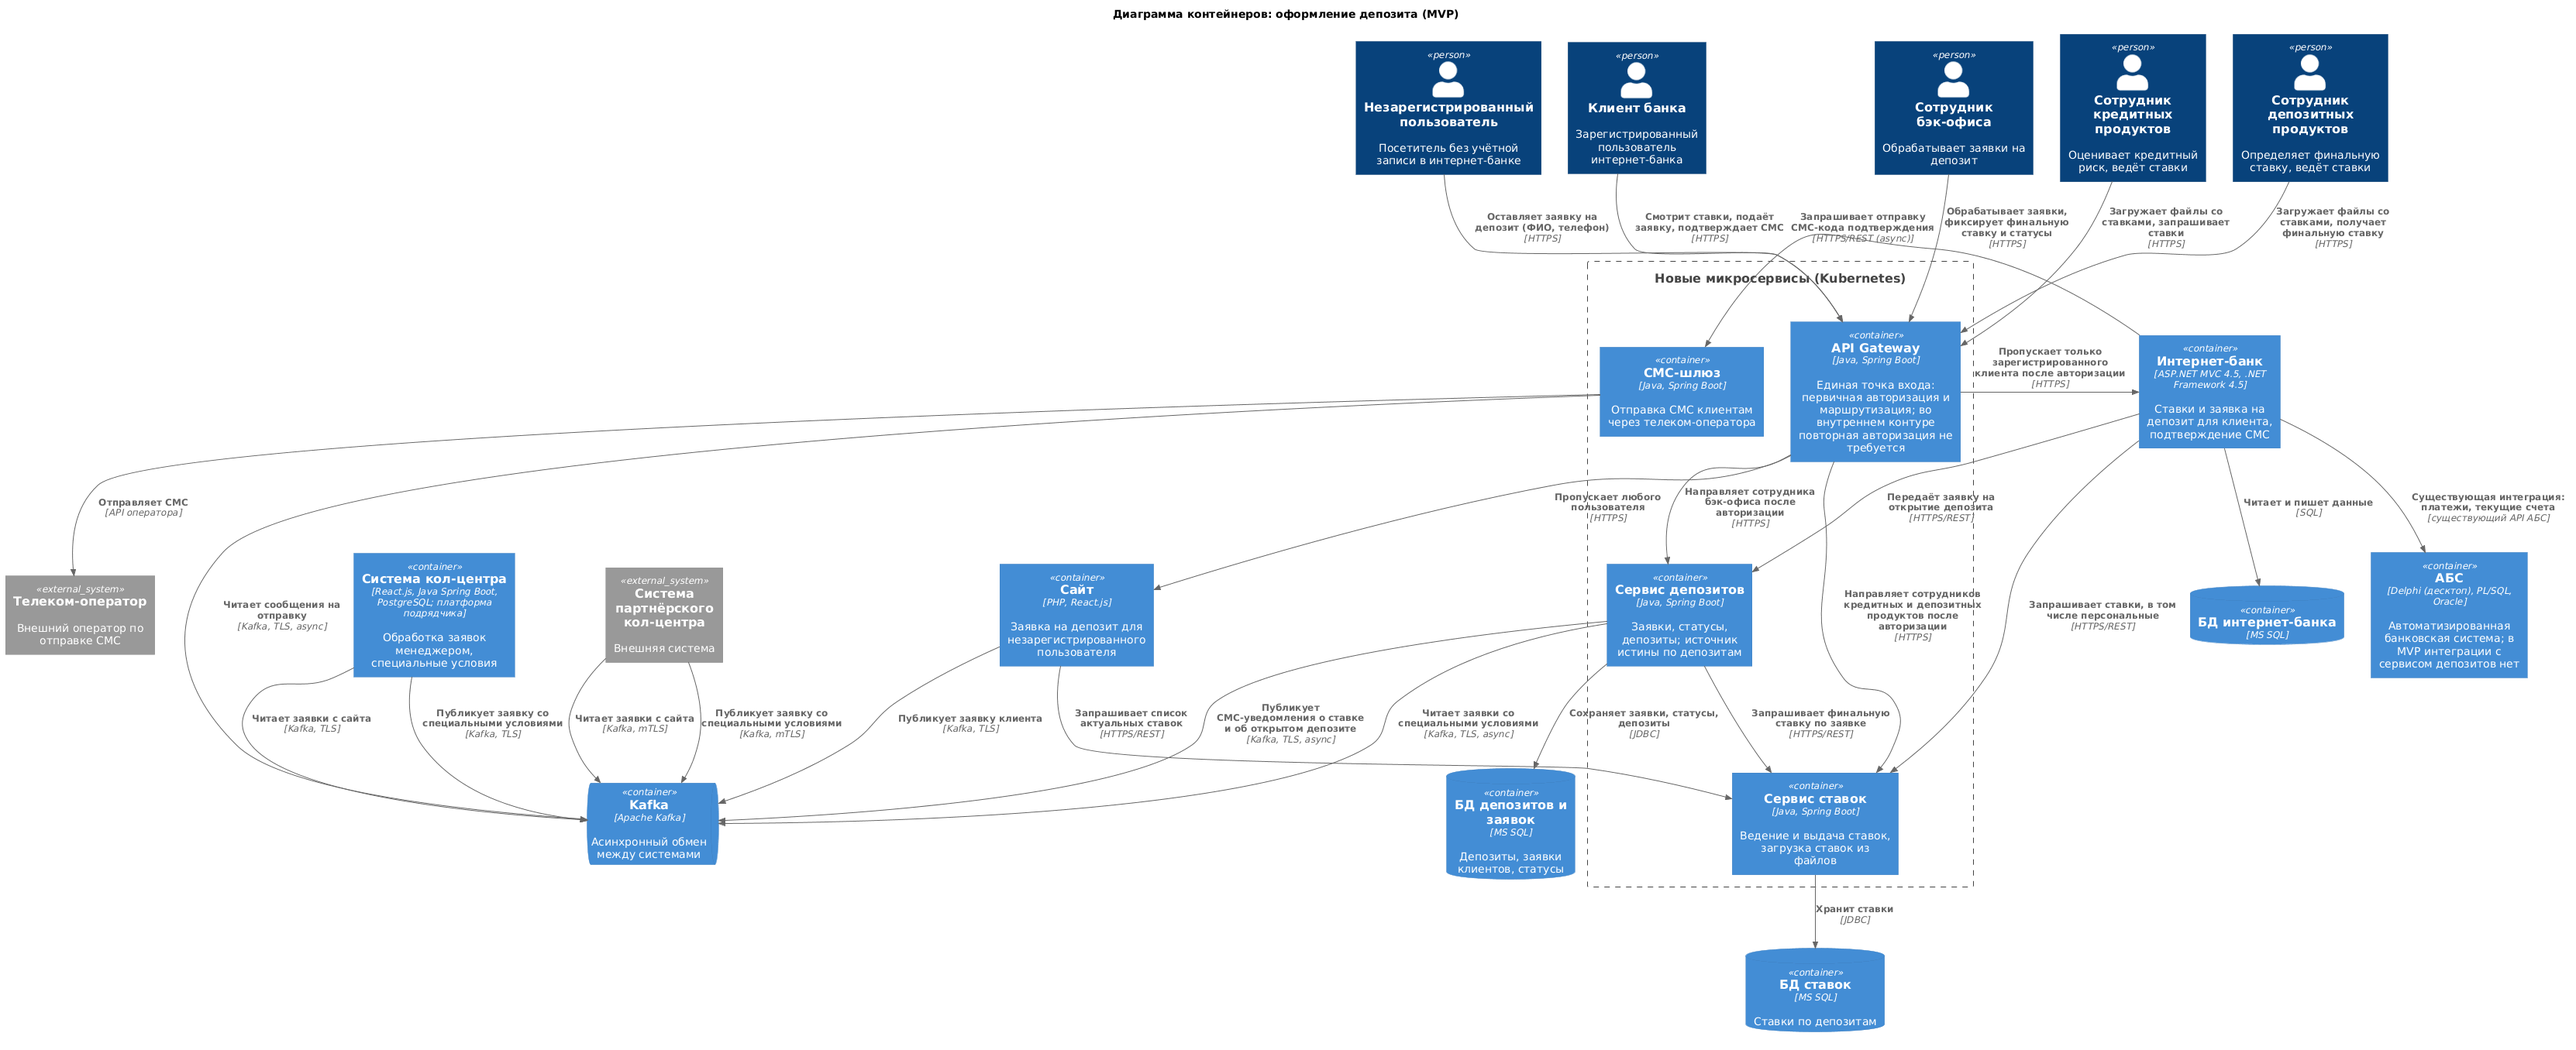
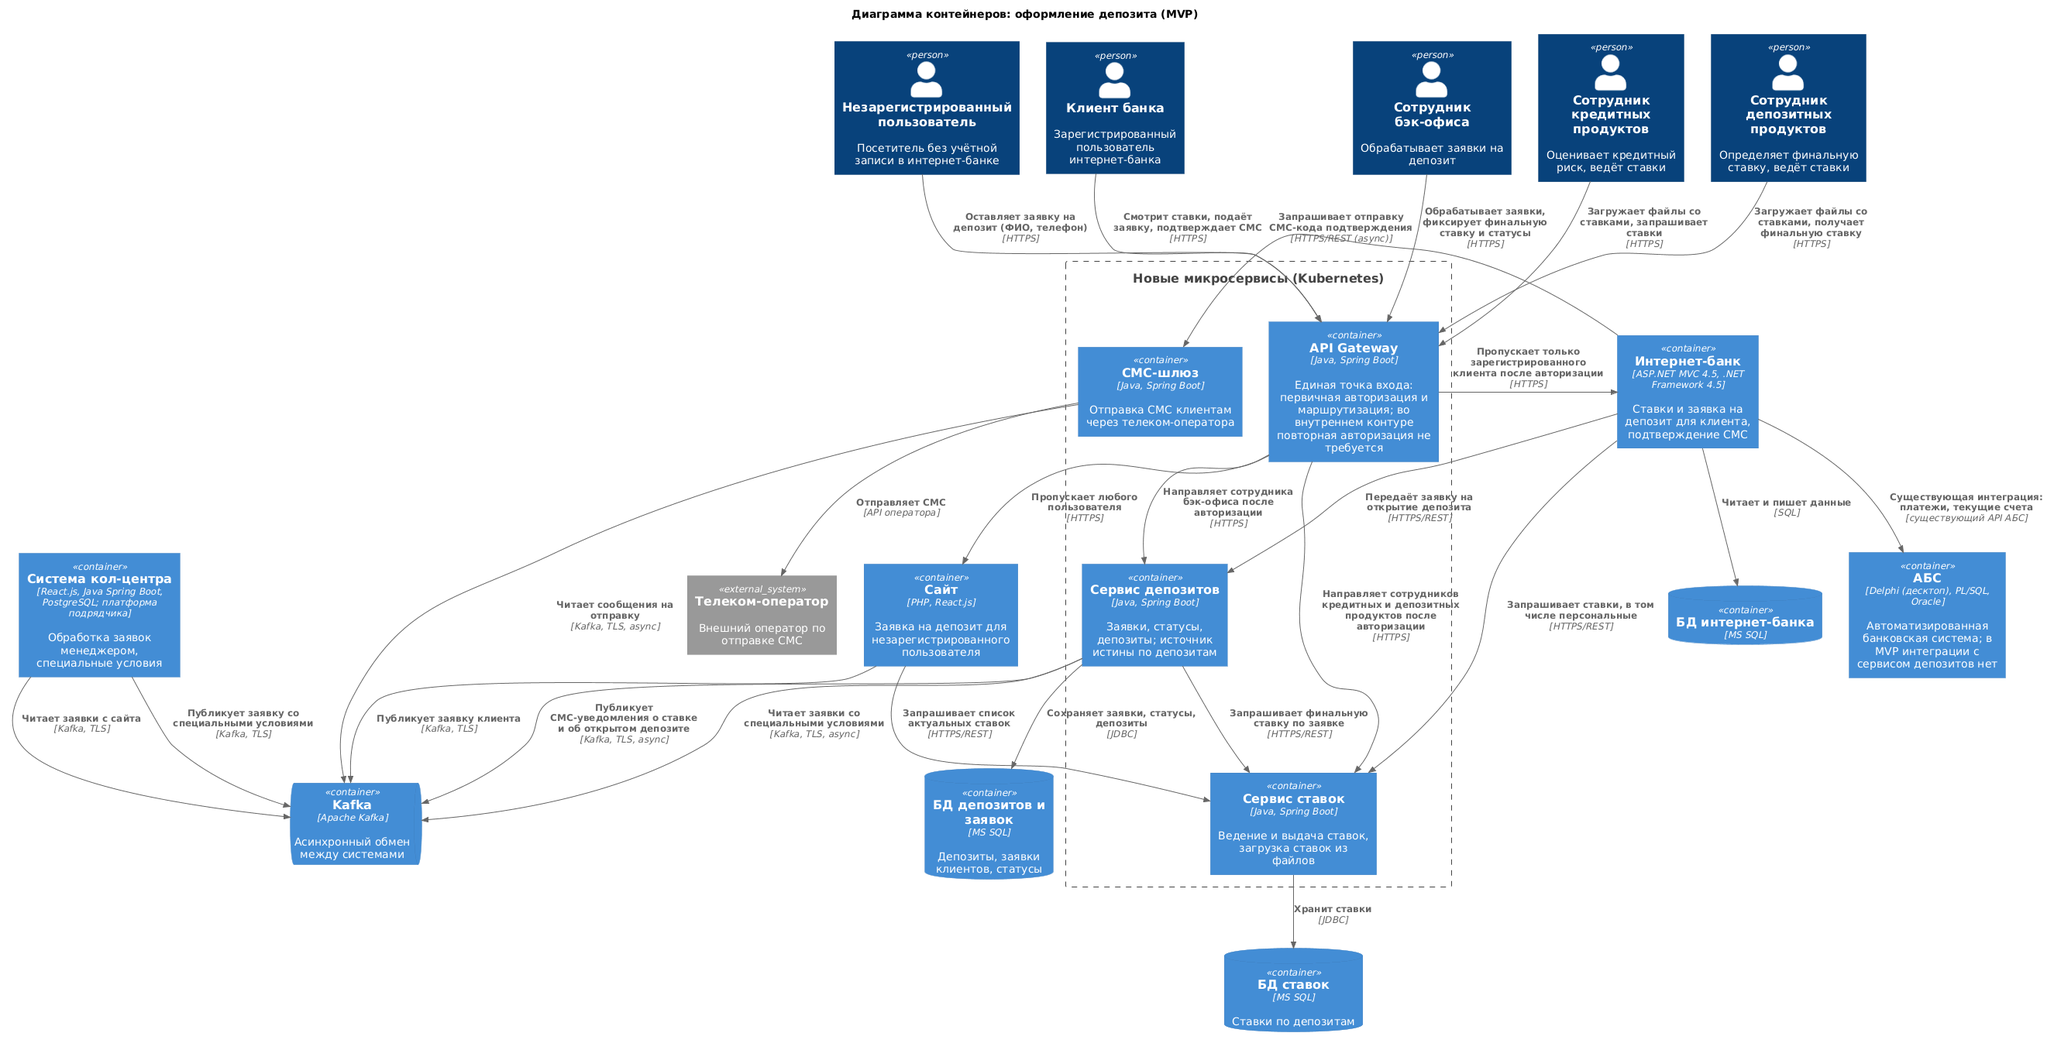
feat: add task 4

diff --git a/Task4/Шаблон_ADR_Task4.md b/Task4/Шаблон_ADR_Task4.md
@@ -1,0 +1,45 @@
+### <a name="_b7urdng99y53"></a>**Название задачи:** Получение ставок депозитов через колл-центр
+### <a name="_hjk0fkfyohdk"></a>**Автор:** Лукашев Михаил
+### <a name="_uanumrh8zrui"></a>**Дата:** 29.10.2026
+### <a name="_3bfxc9a45514"></a>**Функциональные требования**
+Опишите здесь верхнеуровневые Use Cases. Их нужно оформить в виде таблицы с пошаговым описанием:
+
+|**№**|**Действующие лица или системы**|**Use Case**|**Описание**|
+| :-: | :- | :- | :- |
+|1|Пользователь, Gateway, Сотрудник партнёрского колл-центра, Система партнёрского колл-центра|Получение информации о ставке депозита через партнёрский колл-центр, когда основной колл-центр загружен|а) пользователь звонит в банк<br>б) банк понимает, что основной колл-центр загружен<br>в) звонок перенаправляется в партнёрский колл-центр<br>г) пользователь просит у сотрудника информацию о ставке депозита<br>д) сотрудник колл-центра в UI системы партнёрского колл-центра запрашивает информацию о ставке<br>е) в течение нескольких секунд актуальные ставки на момент обращения показываются в UI системы партнёрского колл-центра<br>ж) сотрудник партнёрского колл-центра сообщает информацию о ставке клиенту|
+|2|Пользователь, Gateway, Сотрудник колл-центра, Система колл-центра банка|Получение информации о ставке депозита через основной колл-центр, когда он не загружен|а) пользователь звонит в банк<br>б) банк понимает, что основной колл-центр не загружен<br>в) звонок остаётся в основном колл-центре банка<br>г) пользователь просит у сотрудника информацию о ставке депозита<br>д) сотрудник основного колл-центра в UI системы колл-центра банка запрашивает информацию о ставке<br>е) в течение нескольких секунд актуальные ставки на момент обращения показываются в UI системы колл-центра банка<br>ж) сотрудник основного колл-центра сообщает информацию о ставке клиенту|
+### <a name="_u8xz25hbrgql"></a>**Нефункциональные требования**
+Опишите здесь нефункциональные требования и архитектурно значимые требования.
+
+|**№**|**Требование**|
+| :-: | :- |
+|R|**Надёжность (Reliability)**|
+|R1|Режим работы 24/7.|
+|R2|Доступность ставки 99%.|
+|P|**Производительность (Performance)**|
+|P1|Получение файла со ставками не дольше секунды в пиковых нагрузках.|
+|P2|Поддержка горизонтального масштабирования.|
+|+R|**+ Ограничения (Restrictions)**|
+|+R1|Партнёрский колл-центр не может предоставить API — используем протокол SFTP.|
+|+R2|Для разработки бэкенда можно использовать Java и Spring Boot.|
+|+R3|Разработанный микросервис нужно развернуть в Kubernetes.|
+|+R4|Уже есть gateway, его логику нужно доработать для определения загруженности колл-центра.|
+### <a name="_qmphm5d6rvi3"></a>**Решение**
+Приведите диаграммы контекста и контейнеров в модели C4. Опишите там основные компоненты и интеграции всех элементов решения. 
+
+Также опишите, какой логикой вы руководствовались в ходе принятия решений и выбора технологий. Не забывайте, что необходимо учесть все функциональные и нефункциональные требования.
+
+![Диаграмма контекста](adr_call_center_context.png)
+
+![Диаграмма контейнеров](adr_call_center_container.png)
+### <a name="_bjrr7veeh80c"></a>**Альтернативы**
+Опишите здесь наиболее важные альтернативные решения.
+1) Использовать кэш Redis. Минусы - дополнительная инфра; также через SFTP напрямую не отправить из Редиса файл, все равно нужен адаптер. Кафка уже есть в инфре, логично ее переиспользовать.
+2) Передавать в топике Kafka файл. Файл со ставками неописанного размера (может быть > 1mib). Через кафку лучше не передавать файлы большого размера.
+3) Не использовать кафку. Блокирующие вызовы - блокировка адаптера; ниже пропускная способность.
+4) Не использовать локальный кэш. Тогда придется каждый раз ходить в БД - дорого. Ставка не обновляется каждую секунду, нет смысла в лишних запросах.
+
+**Недостатки, ограничения, риски**
+
+Подробно опишите здесь недостатки, ограничения и риски выбранного решения.
+1) Локальный кеш придется прогревать после рестарта. Кэш не планируется большой - прогрев не должен занять много времени.

diff --git a/Task3/Шаблон_ADR_task3.md b/Task3/Шаблон_ADR_task3.md
@@ -1,5 +1,5 @@
 ### <a name="_b7urdng99y53"></a>**Название задачи:** MVP "Открытие депозита онлайн"
-### <a name="_hjk0fkfyohdk"></a>**Автор:** Лукашев Михаио
+### <a name="_hjk0fkfyohdk"></a>**Автор:** Лукашев Михаил
 ### <a name="_uanumrh8zrui"></a>**Дата:** 29.10.2026
 ### <a name="_3bfxc9a45514"></a>**Функциональные требования**
 Опишите здесь верхнеуровневые Use Cases. Их нужно оформить в виде таблицы с пошаговым описанием:
@@ -28,6 +28,7 @@
 |+R5|Система должна иметь отдельный от ядра интернет-банка СМС-функционал.|
 |+R6|Интернет-банк. Клиент-серверная система на веб-фреймворке ASP.NET MVC 4.5 на основе .NET Framework 4.5 и СУБД MS SQL.|
 |+R7|Сайт — PHP и React.js.|
+|+R8|Система кол-центра должна вместо АБС начать писать заявки в Kafka (интеграция с АБС для передачи заявок заменяется отправкой в очередь).|
 ### <a name="_qmphm5d6rvi3"></a>**Решение**
 Приведите диаграммы контекста и контейнеров в модели C4. Опишите там основные компоненты и интеграции всех элементов решения. 
 
@@ -36,6 +37,8 @@
 ![Диаграмма контекста](adr_reposit_context.png)
 
 ![Диаграмма контейнеров](adr_deposit_container.png)
+
+**Примечание.** Система партнёрского кол-центра на диаграммах контекста и контейнеров пока не показана: её интеграция будет проработана отдельно в Task 4 (в рамках требования +R8 система кол-центра пишет заявки в Kafka вместо АБС).
 
 **Логика**: 
 нужно обеспечить **высокую доступность системы**, **повысить отклик**. В текущей реализации система АБС итак нагружена (БД перегружена) - добавлять новый функционал туда плохая идея.

diff --git a/Task2/FURPS+_новая.md b/Task2/FURPS+_новая.md
@@ -35,3 +35,4 @@
 | +R10 | Шифрование трафика: TLS не ниже 1.2 для всех каналов (клиент – сайт/интернет-банк, межсервисное и межсистемное взаимодействие, Kafka, соединения с БД). Между внутренними сервисами и с внешними системами — взаимный TLS. | Интернет-банк на .NET Framework 4.5 требует явной настройки TLS 1.2. |
 | +R11 | Сервис депозитов — источник истины по депозитам и статусам заявок; данные хранятся в его собственной БД. | Решение принято для разгрузки БД АБС (см. +R6). |
 | +R12 | Интеграция (адаптер) сервиса депозитов с АБС в MVP не реализуется. | Если АБС потребуются данные о депозите, она получает их по запросу через очередь, без прямого доступа к БД сервиса депозитов. |
+| +R13 | Система кол-центра должна вместо АБС начать писать заявки в Kafka. | Согласуется с +R5 (экспертиза в Kafka) и +R8 (защита перегруженной БД АБС от прямых обращений). |
